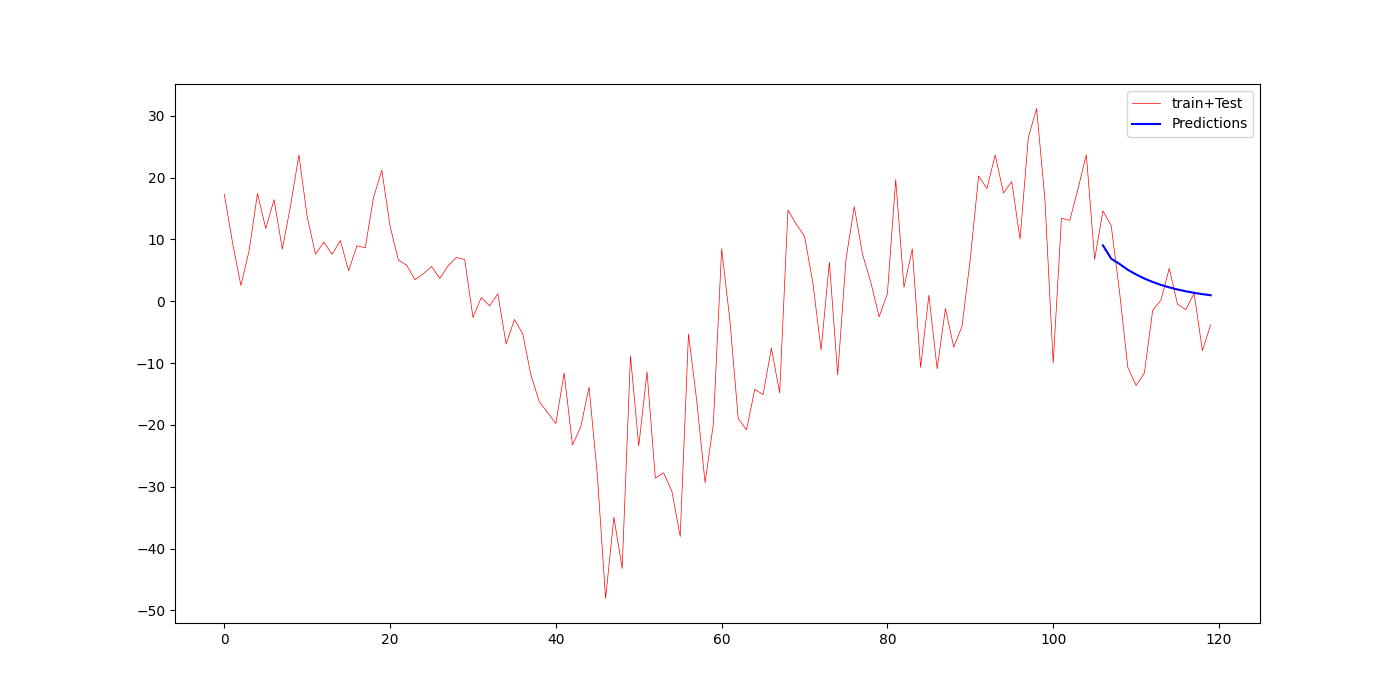
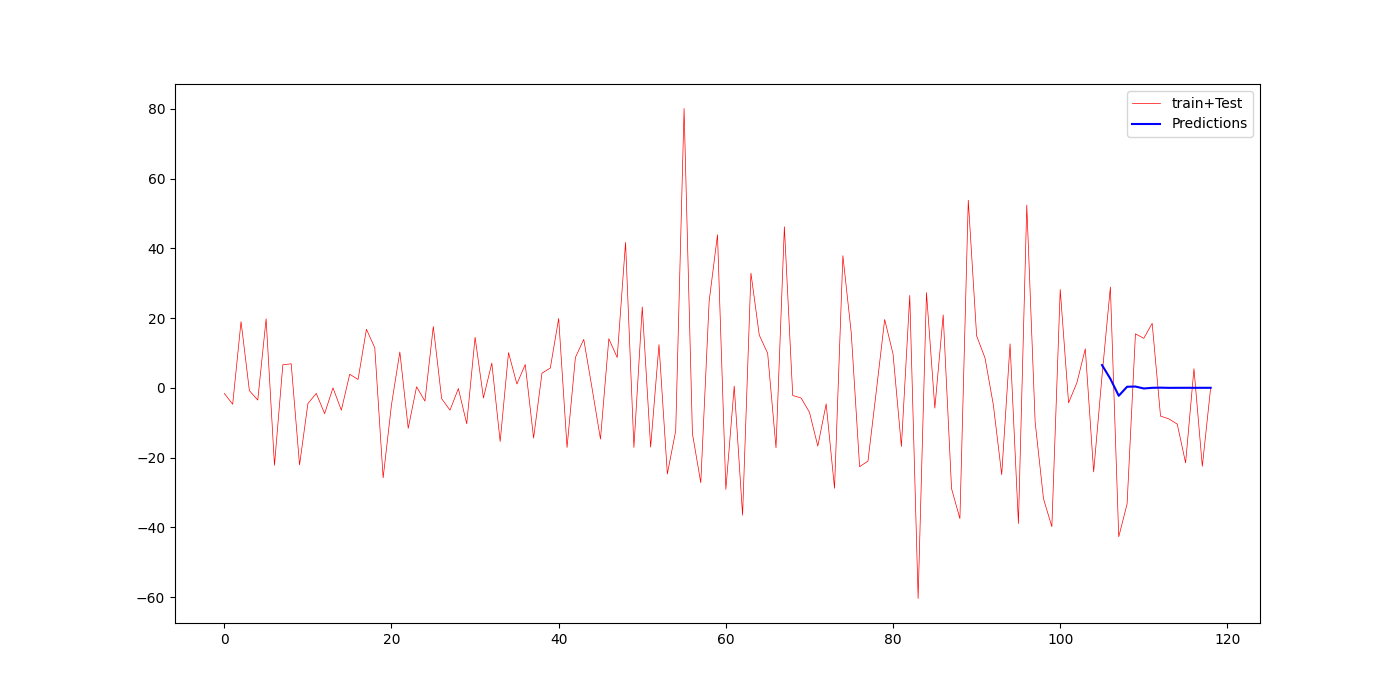
using first order diff for ar model

diff --git a/code/Ass1/sun.py b/code/Ass1/sun.py
@@ -401,8 +401,7 @@ https://towardsdatascience.com/trend-seasonality-moving-average-auto-regressive-
 """
 
 
-X = decomposition_STL.resid.values
-
+X = series_diff.values
 plt.figure()
 fig, axes = plt.subplots(2, 1)
 plot_acf(X, lags=50, ax=axes[0])
@@ -432,9 +431,10 @@ for idx, ar_order in enumerate(ar_orders):
 
     print("[INFO] train autoregression...")
     model = ARIMA(train, order=(ar_order, 0, 0))
-    model_fit = model.fit()
+    model_fit = model.fit(disp=-1)
 
     fitted_model_dict[ar_order] = model_fit
+    print(model_fit.summary())
 
     col_list.append("AR({:1.0f})".format(ar_order))
 
@@ -445,7 +445,7 @@ for idx, ar_order in enumerate(ar_orders):
     RMS_list.append("{:2.3f}".format(np.sqrt(mean_squared_error(test, predictions))))
     mae_list.append("{:2.3f}".format(np.mean(np.abs(predictions - test))))
     mpe_list.append("{:2.3f}".format(np.mean((predictions - test) / test)))
-    cor_list.append("{:2.3f}".format(np.corrcoef(predictions, test)[0, 1]))
+    #    cor_list.append("{:2.3f}".format(np.corrcoef(predictions, test)[0, 1]))
 
     plt.figure()
     xpos = np.arange(len(X))
@@ -456,16 +456,28 @@ for idx, ar_order in enumerate(ar_orders):
     plt.legend(["train+Test", "Predictions"])
     plt.savefig(os.path.join(fig_dir, a + "_" + str(idx + 1) + "_AR2.png"))
 
+
+plt.figure()
 for idx, ar_order in enumerate(ar_orders):
-    plt.figure(0)
     plt.subplot(len(ar_orders), 1, idx + 1)
-    plt.plot(train[:100])
-    plt.plot(fitted_model_dict[ar_order].fittedvalues[:100])
+    plt.plot(train[-100:])
+    plt.plot(fitted_model_dict[ar_order].fittedvalues[-100:])
     plt.title("AR({:1.0f}) Fit".format(ar_order), fontsize=16)
 
 
 plt.tight_layout()
 plt.savefig(os.path.join(fig_dir, a + "ARs models.png"))
+
+
+plt.figure()
+for idx, ar_order in enumerate(ar_orders):
+    plt.subplot(len(ar_orders), 1, idx + 1)
+    plt.plot(train[-100:].T.squeeze() - fitted_model_dict[ar_order].fittedvalues[-100:])
+    plt.title("Training Errors of AR({:1.0f})".format(ar_order))
+
+
+plt.tight_layout()
+plt.savefig(os.path.join(fig_dir, a + "Training Errors of ARs models.png"))
 
 print("[INFO] AIC and BIC of autoregression models...")
 for ar_order in ar_orders:
@@ -476,12 +488,9 @@ for ar_order in ar_orders:
 
 
 df = pd.DataFrame(
-    np.row_stack(
-        [ord_list, AIC_list, BIC_list, RMS_list, cor_list, mpe_list, mae_list]
-    ),
-    index=["lag(s)", "AIC", "BIC", "RMS error", "Correlation", "MPE", "MAE"],
+    np.row_stack([ord_list, AIC_list, BIC_list, RMS_list, mpe_list, mae_list]),
+    index=["lag(s)", "AIC", "BIC", "RMS error", "MPE", "MAE"],
 )
 df.columns = col_list
-print(df)
 with open(os.path.join(tbl_dir, a + "AR.tex"), "w") as tf:
     tf.write(df.to_latex(index=True))

diff --git a/code/Ass1/Temp.py b/code/Ass1/Temp.py
@@ -358,7 +358,7 @@ for idx, ar_order in enumerate(ar_orders):
 
     print("[INFO] train autoregression...")
     model = ARIMA(train, order=(ar_order, 0, 0))
-    model_fit = model.fit()
+    model_fit = model.fit(disp=-1)
 
     fitted_model_dict[ar_order] = model_fit
 
@@ -385,12 +385,22 @@ for idx, ar_order in enumerate(ar_orders):
 for idx, ar_order in enumerate(ar_orders):
     plt.figure(0)
     plt.subplot(len(ar_orders), 1, idx + 1)
-    plt.plot(train[:100])
-    plt.plot(fitted_model_dict[ar_order].fittedvalues[:100])
+    plt.plot(train[-100:])
+    plt.plot(fitted_model_dict[ar_order].fittedvalues[-100:])
     plt.title("AR({:1.0f}) Fit".format(ar_order), fontsize=16)
 
 plt.tight_layout()
 plt.savefig(os.path.join(fig_dir, a + "ARs models.png"))
+
+plt.figure()
+for idx, ar_order in enumerate(ar_orders):
+    plt.subplot(len(ar_orders), 1, idx + 1)
+    plt.plot(train[-100:] - fitted_model_dict[ar_order].fittedvalues[-100:])
+    plt.title("Training Errors of AR({:1.0f})".format(ar_order), fontsize=16)
+
+
+plt.tight_layout()
+plt.savefig(os.path.join(fig_dir, a + "Training Errors of ARs models.png"))
 
 print("[INFO] AIC and BIC of autoregression models...")
 for ar_order in ar_orders:

diff --git a/manuscript/src/tables/Ass1/Ass1_D2_AR.tex b/manuscript/src/tables/Ass1/Ass1_D2_AR.tex
@@ -2,12 +2,11 @@
 \toprule
 {} &      AR(1) &      AR(2) &      AR(3) &      AR(4) \\
 \midrule
-lag(s)      &          1 &          2 &          3 &          4 \\
-AIC         &  22359.771 &  22236.837 &  22136.843 &  22097.596 \\
-BIC         &  22377.589 &  22260.594 &  22166.538 &  22133.231 \\
-RMS error   &      7.777 &      8.629 &     10.069 &     11.047 \\
-Correlation &      0.522 &      0.457 &      0.401 &      0.335 \\
-MPE         &     -0.618 &      0.046 &      0.739 &      1.149 \\
-MAE         &      5.994 &      6.706 &      7.953 &      9.017 \\
+lag(s)    &          1 &          2 &          3 &          4 \\
+AIC       &  23639.590 &  23520.035 &  23458.976 &  23445.293 \\
+BIC       &  23657.407 &  23543.791 &  23488.670 &  23480.926 \\
+RMS error &     20.696 &     19.816 &     20.090 &     20.323 \\
+MPE       &     -0.698 &     -0.609 &     -0.568 &     -0.542 \\
+MAE       &     16.817 &     16.817 &     16.818 &     16.822 \\
 \bottomrule
 \end{tabular}
